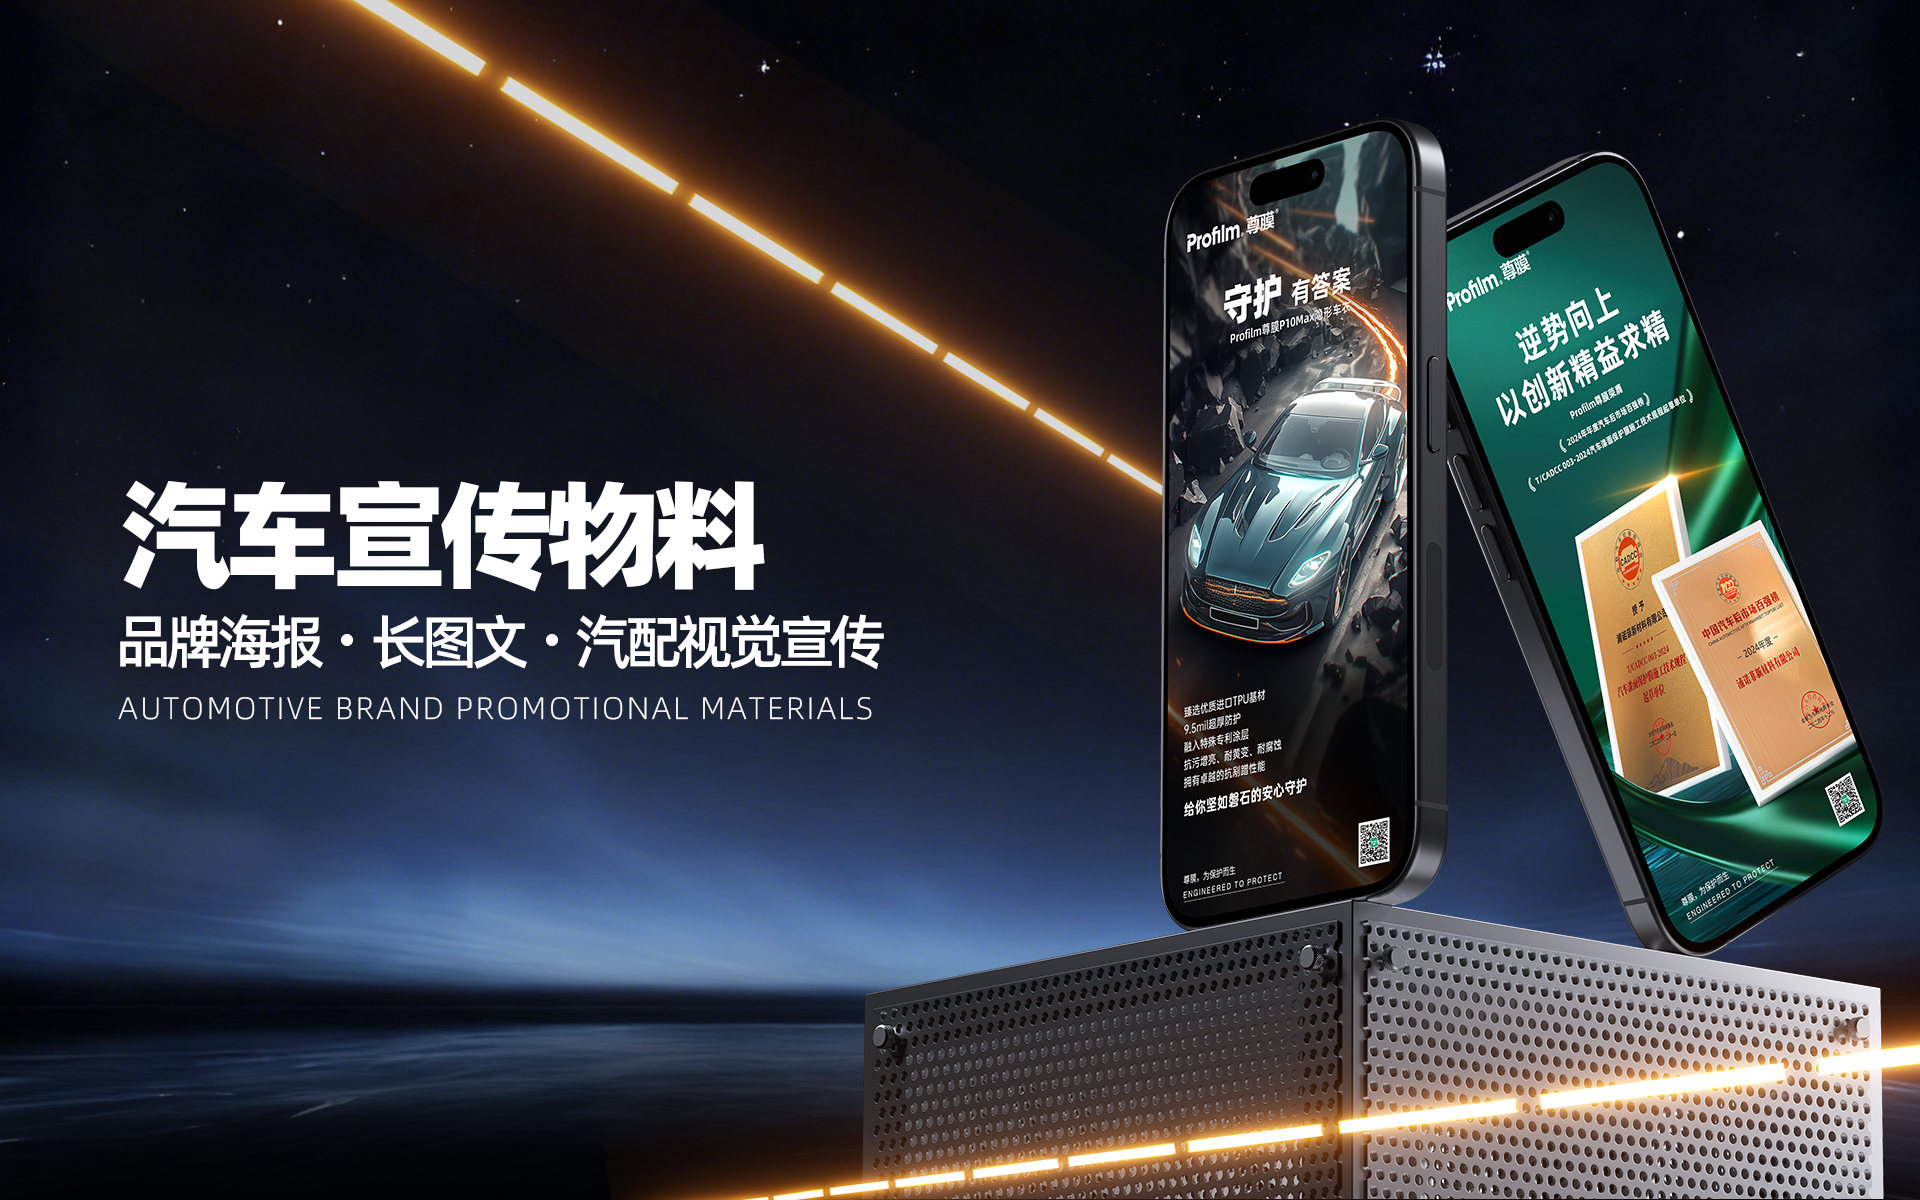
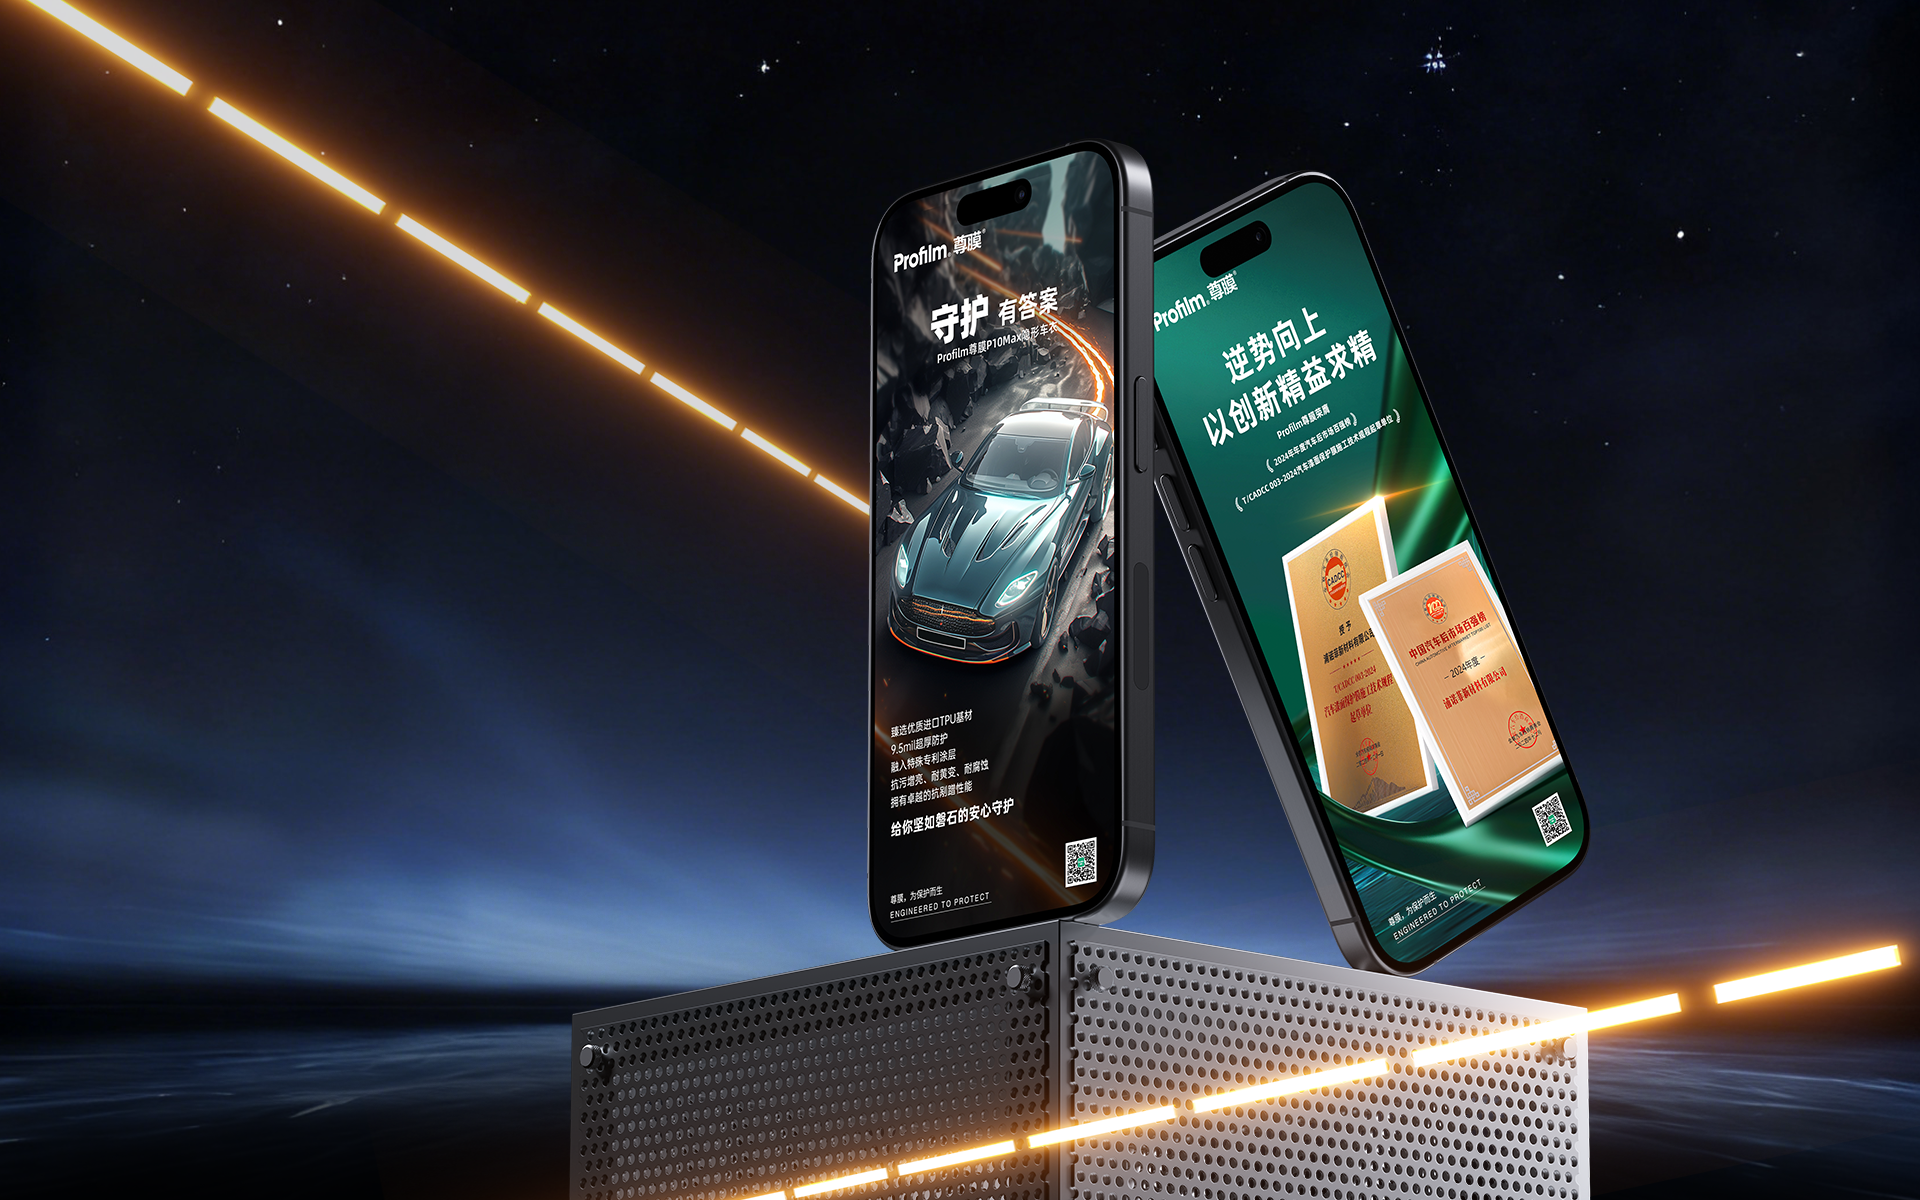
update: 标题描述左下角+数量右下角+替换三张图

diff --git a/index.html b/index.html
@@ -345,12 +345,17 @@
             padding: 80px 32px 32px;
             background: linear-gradient(to top, rgba(10,10,15,0.95) 0%, rgba(10,10,15,0.6) 50%, transparent 100%);
             display: flex;
-            flex-direction: column;
-            justify-content: flex-end;
+            flex-direction: row;
+            justify-content: space-between;
+            align-items: flex-end;
+        }
+
+        .entry-info {
+            flex: 1;
         }
 
         .entry-count {
-            align-self: flex-end;
+            flex-shrink: 0;
             display: inline-block;
             padding: 6px 14px;
             border-radius: 100px;
@@ -359,7 +364,6 @@
             font-size: 0.75rem;
             font-weight: 600;
             color: var(--accent-cyan);
-            margin-top: 12px;
         }
 
         .entry-name {
@@ -865,8 +869,10 @@
                     <img src="assets/entry-edu.png" alt="教育品牌全案">
                 </div>
                 <div class="entry-overlay">
-                    <h3 class="entry-name">教育品牌全案</h3>
-                    <p class="entry-desc">品牌升级 · IP设计 · 新媒体视觉</p>
+                    <div class="entry-info">
+                        <h3 class="entry-name">教育品牌全案</h3>
+                        <p class="entry-desc">品牌升级 · IP设计 · 新媒体视觉</p>
+                    </div>
                     <div class="entry-count">24+ 项目</div>
                 </div>
             </a>
@@ -875,8 +881,10 @@
                     <img src="assets/entry-auto.png" alt="汽车宣传物料">
                 </div>
                 <div class="entry-overlay">
-                    <h3 class="entry-name">汽车宣传物料</h3>
-                    <p class="entry-desc">品牌海报 · 长图文 · 产品视觉</p>
+                    <div class="entry-info">
+                        <h3 class="entry-name">汽车宣传物料</h3>
+                        <p class="entry-desc">品牌海报 · 长图文 · 产品视觉</p>
+                    </div>
                     <div class="entry-count">12+ 项目</div>
                 </div>
             </a>
@@ -885,8 +893,10 @@
                     <img src="assets/entry-ecom.png" alt="智能POS商业全案">
                 </div>
                 <div class="entry-overlay">
-                    <h3 class="entry-name">智能POS商业全案</h3>
-                    <p class="entry-desc">电商视觉 · 产品包装 · 展会物料</p>
+                    <div class="entry-info">
+                        <h3 class="entry-name">智能POS商业全案</h3>
+                        <p class="entry-desc">电商视觉 · 产品包装 · 展会物料</p>
+                    </div>
                     <div class="entry-count">7+ 项目</div>
                 </div>
             </a>
@@ -895,8 +905,10 @@
                     <img src="assets/edu/30.jpg" alt="创意概念视觉">
                 </div>
                 <div class="entry-overlay">
-                    <h3 class="entry-name">创意概念视觉</h3>
-                    <p class="entry-desc">AIGC创意 · 概念海报 · 字体设计</p>
+                    <div class="entry-info">
+                        <h3 class="entry-name">创意概念视觉</h3>
+                        <p class="entry-desc">AIGC创意 · 概念海报 · 字体设计</p>
+                    </div>
                     <div class="entry-count">15+ 项目</div>
                 </div>
             </a>
